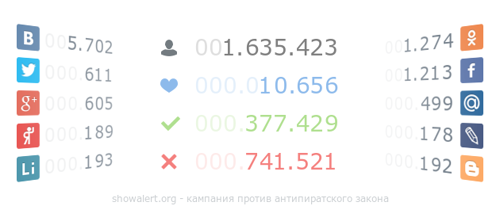
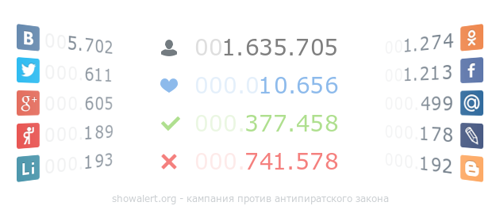
some updates

Changed region(s): [[0.6, 0.1748, 0.69, 0.2913], [0.63, 0.7282, 0.69, 0.8447], [0.6, 0.5534, 0.69, 0.6408]]

diff --git a/votes.js b/votes.js
@@ -1,1 +1,1 @@
-window.lk.votes(25961)
+window.lk.votes(25992)
